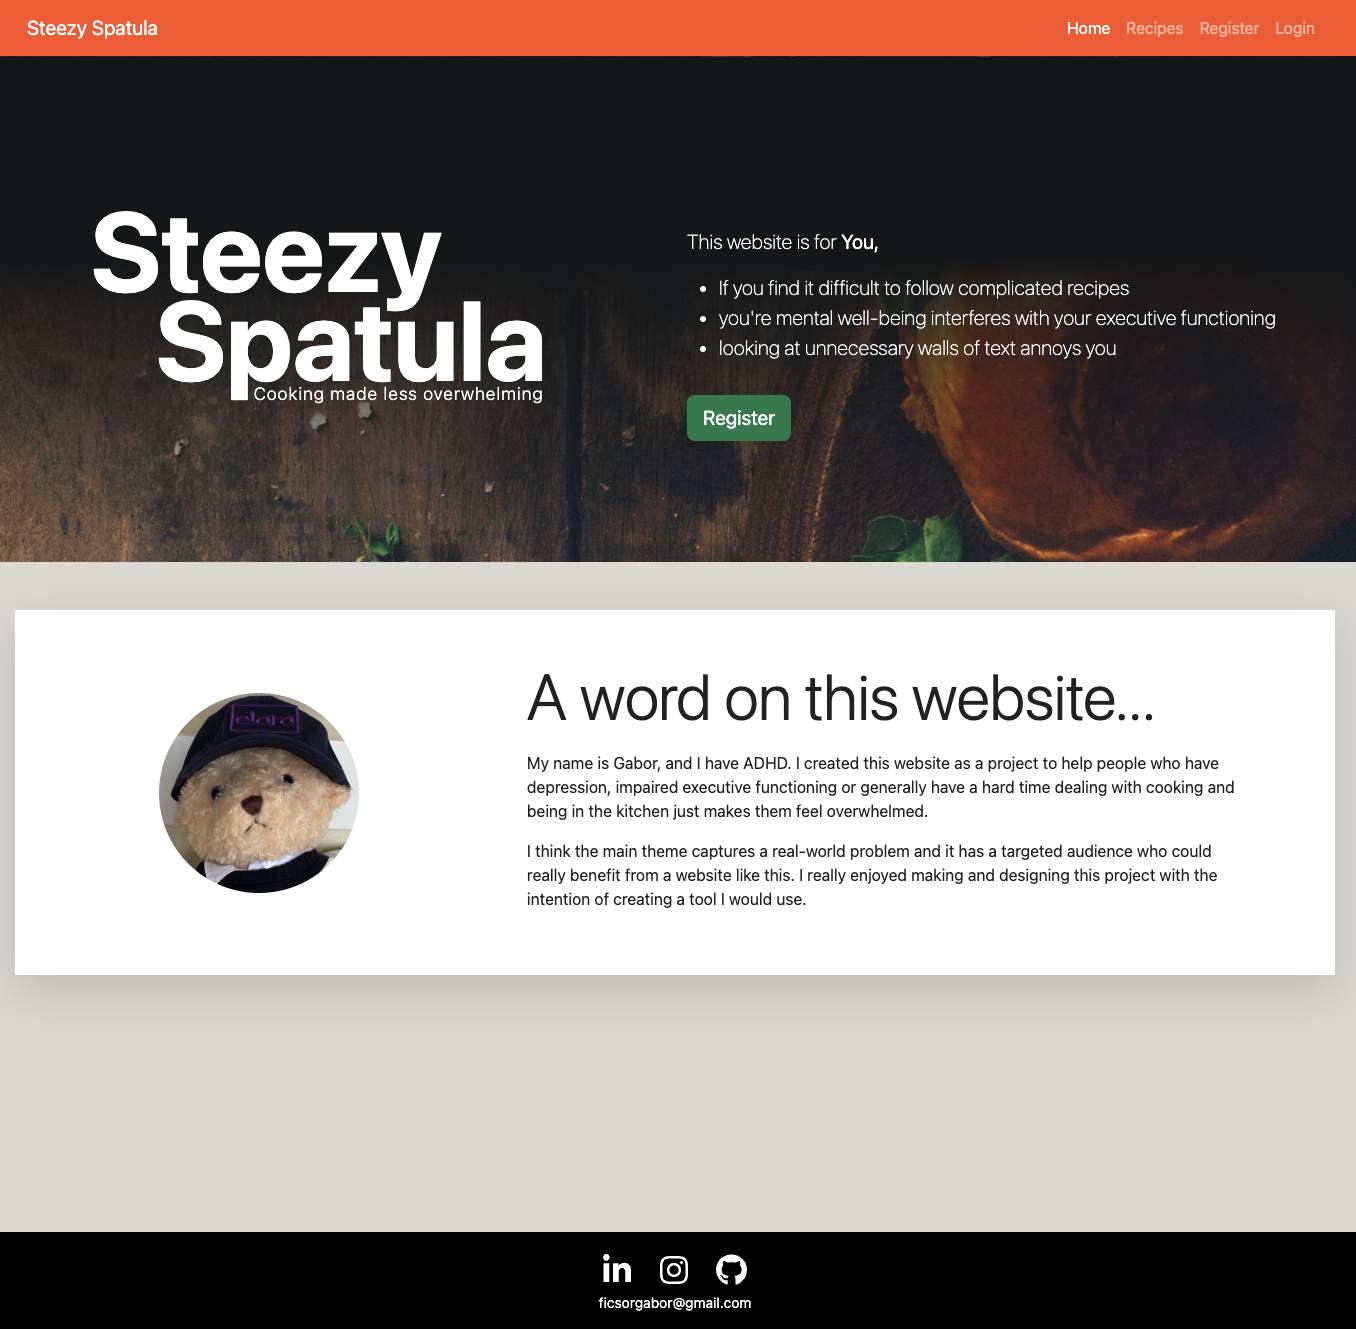
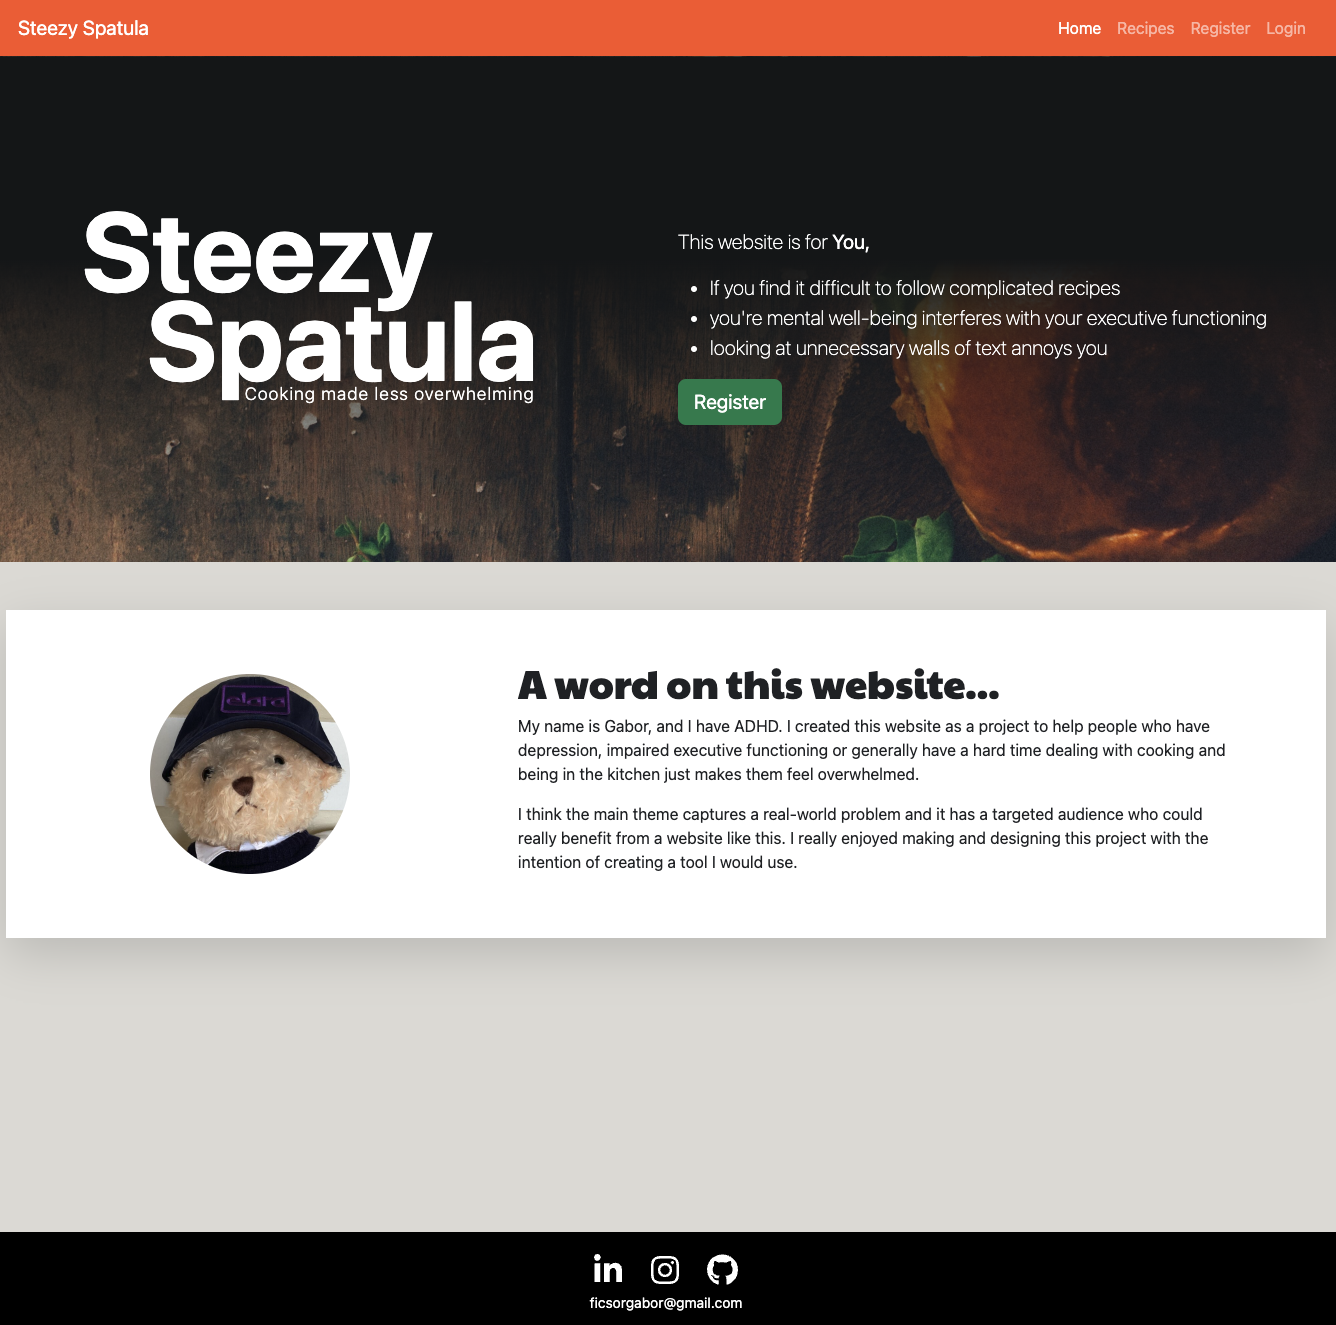
Replace README.md images to reflect current state of website

diff --git a/README.md b/README.md
@@ -4,6 +4,8 @@ Steezy Spatula is a responsive web application aiming to help people who are str
 
 For the admin panel, the default Django admin dashboard was used, where the admin is able to perform CRUD functionalities related to every model and object.
 
+ * STEEZY is a combination of "Style" and "Ease" - a term mainly used to describe something executed effortlessly in stylish way. I chose this word as my project's name to give people an idea of how the recipe's on this website could be described.
+
 ![image of the amiresponsive testing](static/images/amiresponsive.png)
 
 The live website can be viewed here: [Steezy Spatula - cooking made less overwhelming](https://steezy-spatula.herokuapp.com/)
@@ -770,6 +772,7 @@ Accessibility testing, responsiveness testing validating and manual testing can 
 * Comment model - Code Institute's I think therefore I blog walkthrough project
 * Alert timeout - Code Institute's I think therefore I blog walkthrough project
 * Admin panel setup - Code Institute's I think therefore I blog walkthrough project
+* README.md and TESTS.md structure - [readme-examples](https://github.com/kera-cudmore/readme-examples)
 
 ### Media
 
